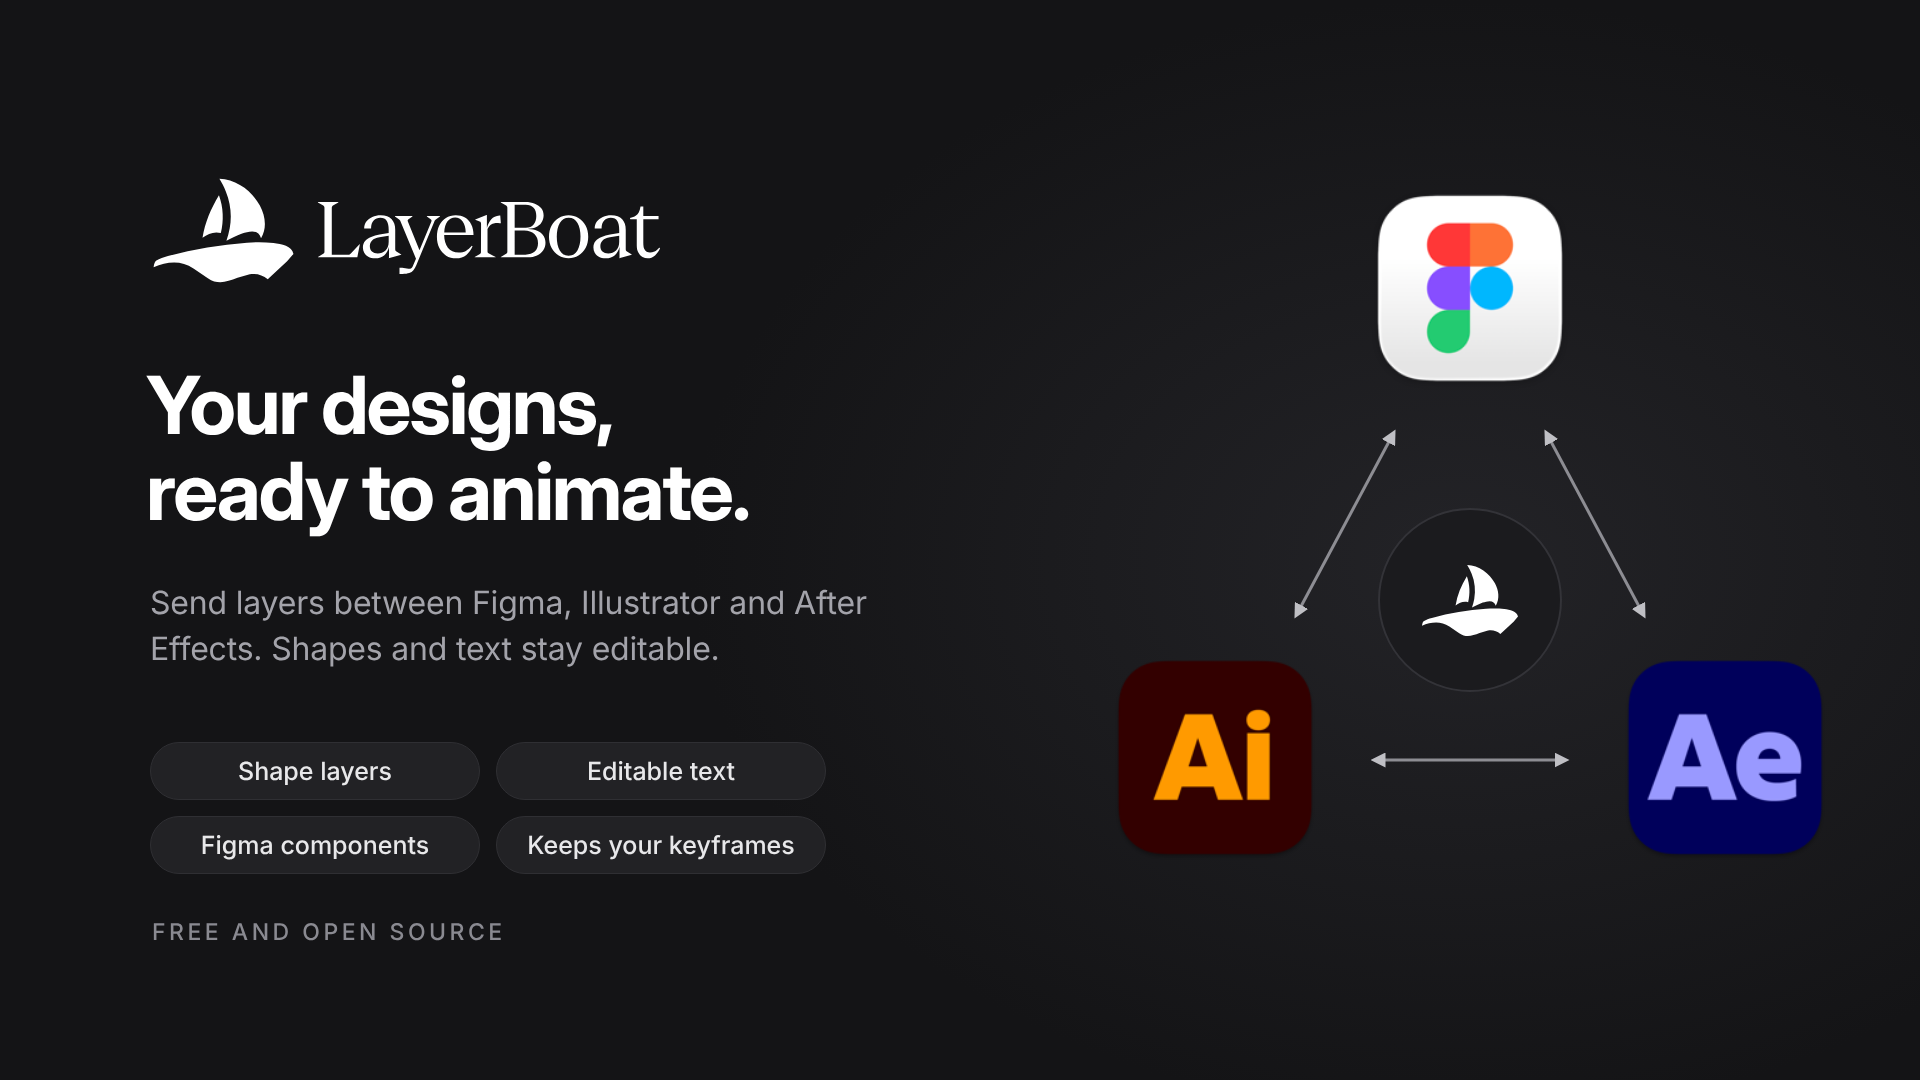
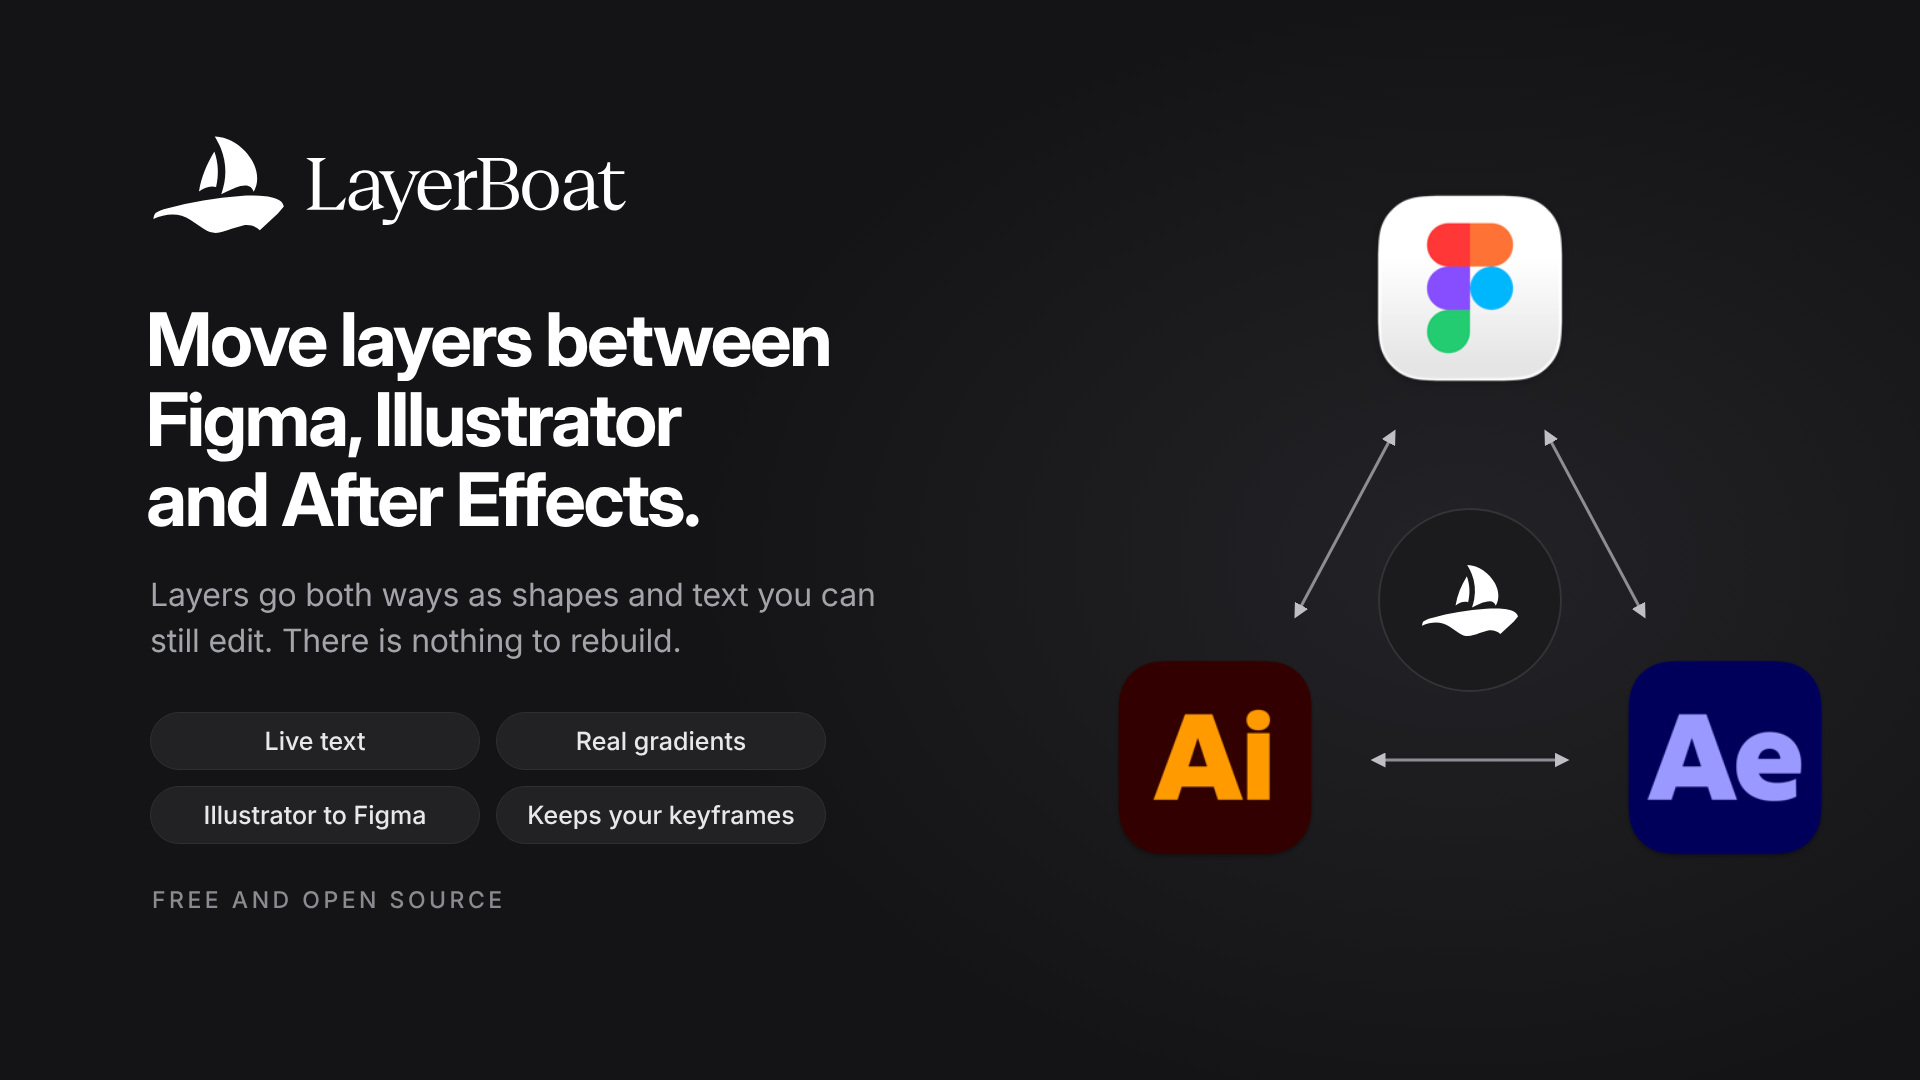
New messaging: no rebuilding, live text, Illustrator and Figma both ways. Site, README, listing and cover

diff --git a/site/index.html b/site/index.html
@@ -3,10 +3,10 @@
 <head>
 <meta charset="utf-8">
 <meta name="viewport" content="width=device-width, initial-scale=1">
-<title>LayerBoat · Move layers between Figma, Illustrator, Photoshop and After Effects</title>
-<meta name="description" content="Free and open source. Send Figma frames to After Effects as shape layers and editable text, and send them back. Works with Illustrator and Photoshop too.">
+<title>LayerBoat · The free way to get Figma, Illustrator and Photoshop files into After Effects</title>
+<meta name="description" content="Move Figma, Illustrator and Photoshop designs into After Effects without rebuilding them. Text stays editable, gradients stay gradients, and layers land where you placed them. Works between Figma and Illustrator too. Free and open source.">
 <meta property="og:title" content="LayerBoat">
-<meta property="og:description" content="Move layers between Figma, Illustrator and After Effects, both ways. Free and open source.">
+<meta property="og:description" content="Move your designs between Figma, Illustrator, Photoshop and After Effects without rebuilding a single layer. Free and open source.">
 <meta property="og:image" content="https://tobihassan.com/layerboat/cover.jpg">
 <meta property="og:url" content="https://tobihassan.com/layerboat">
 <link rel="canonical" href="https://tobihassan.com/layerboat">
@@ -188,8 +188,8 @@
     <div class="apps" aria-hidden="true">
       <img src="/layerboat/photoshop.png" alt=""><span>→</span><img src="/layerboat/after-effects.png" alt=""><span>⇄</span><img src="/layerboat/figma.png" alt=""><span>⇄</span><img src="/layerboat/illustrator.png" alt="">
     </div>
-    <h1>Move your designs between Figma, Illustrator and After Effects.</h1>
-    <p class="sub">Send a Figma frame to After Effects and start animating the real layers. When you're done, send it back. Illustrator and Photoshop work too. It's free, and the code is open for anyone.</p>
+    <h1 style="text-wrap:balance">Move your Figma designs into After Effects without rebuilding a single layer.</h1>
+    <p class="sub">Text stays editable. Gradients stay gradients. Everything lands where you placed it. When the design changes, update it in place and keep your animation. Illustrator and Photoshop work too. It's free and open source.</p>
     <a class="btn" id="dl" onclick="window.va&&window.va('event',{name:'Download'})" href="https://github.com/HassanOluwatobi/layerboat/releases/latest">
       <svg width="18" height="18" viewBox="0 0 24 24" fill="none" stroke="currentColor" stroke-width="2.2" stroke-linecap="round" stroke-linejoin="round"><path d="M12 4v12M6 11l6 6 6-6M5 20h14"/></svg>
       <span id="dl-label">Download LayerBoat</span>
@@ -200,14 +200,14 @@
 
   <section id="features">
     <div class="sec-head">
-      <h2>Your design, ready to animate.</h2>
-      <p>Most tools hand you a flat picture of your frame. LayerBoat rebuilds it with each app's own layers, so you can pick up right where the design left off.</p>
+      <h2>Skip the SVG export, the Illustrator cleanup and the XD workaround.</h2>
+      <p>Those detours exist because a normal import hands you a flat picture, grey gradients or text turned into outlines. LayerBoat rebuilds your design with each app's own layers, so you pick up where the design left off.</p>
     </div>
 
     <div class="feature">
       <div class="copy">
-        <h3>Layers arrive as layers, with their names.</h3>
-        <p>Send a frame and you get shape layers, text you can retype and your images, named exactly as they were in Figma. Gradients, masks, dashed strokes and rounded corners come along too.</p>
+        <h3>Your Figma text lands in After Effects as text you can still edit.</h3>
+        <p>Send a frame and you get live text, shape layers and your images, named exactly as they were in Figma and sitting exactly where they were. Gradients, masks, dashed strokes and rounded corners come along too. No reference overlay and no nudging layers into place.</p>
       </div>
       <div class="stage" aria-hidden="true">
         <div class="win" style="width:190px">
@@ -233,7 +233,7 @@
 
     <div class="feature flip">
       <div class="copy">
-        <h3>Change the design and keep the animation.</h3>
+        <h3>Change the design after you've animated it. Your keyframes stay.</h3>
         <p>Designs change after you've started animating. When they do, update the frame in Figma and send it again. LayerBoat rebuilds it in the same comp and leaves your keyframes, effects and extra layers where you put them.</p>
       </div>
       <div class="stage" aria-hidden="true" style="position:relative">
@@ -250,8 +250,8 @@
 
     <div class="feature">
       <div class="copy">
-        <h3>Go any direction you like.</h3>
-        <p>Send a comp back to Figma for review, or open it in Illustrator on a new artboard. Illustrator artwork can go to either app too. Text stays editable on every trip.</p>
+        <h3>Send layers from Illustrator to Figma and back. They come back as shapes, not flat images.</h3>
+        <p>Pasting from Illustrator often gives Figma a flat image, outlined text or broken paths. Going the other way turns your Figma text into outlines. LayerBoat moves groups, masks, gradients and live text in both directions and keeps your layer names. After Effects comps can go to either app too.</p>
       </div>
       <div class="stage" aria-hidden="true">
         <div class="loop">
@@ -353,7 +353,7 @@
   </section>
 
   <section class="cta">
-    <h2 class="serif">Try it on your next animation.</h2>
+    <h2 class="serif">Try it on the next file you were about to rebuild.</h2>
     <a class="btn" href="https://github.com/HassanOluwatobi/layerboat/releases/latest" onclick="window.va&&window.va('event',{name:'Download'})" id="dl2">Download LayerBoat</a>
   </section>
 

diff --git a/brand/cover-src/cover.html b/brand/cover-src/cover.html
@@ -1,21 +1,21 @@
 <!doctype html><html><head><style>
 *{margin:0;padding:0;box-sizing:border-box}
 body{width:1920px;height:1080px;background:radial-gradient(1100px 800px at 1460px 560px,#232327 0%,#141416 70%);font-family:"Inter",sans-serif;color:#fff;overflow:hidden;position:relative}
-.logo{position:absolute;left:150px;top:172px;height:120px}
-h1{position:absolute;left:146px;top:362px;font-family:"Inter Display","Inter";font-weight:700;font-size:80px;line-height:1.08;letter-spacing:-2.2px;width:820px}
-.sub{position:absolute;left:150px;top:580px;font-size:32px;line-height:1.45;color:#a3a3aa;width:780px;letter-spacing:-.2px}
-.chips{position:absolute;left:150px;top:742px;display:grid;grid-template-columns:330px 330px;gap:16px}
+.logo{position:absolute;left:150px;top:130px;height:112px}
+h1{position:absolute;left:146px;top:300px;font-family:"Inter Display","Inter";font-weight:700;font-size:74px;line-height:1.08;letter-spacing:-2.2px;width:900px}
+.sub{position:absolute;left:150px;top:572px;font-size:32px;line-height:1.45;color:#a3a3aa;width:780px;letter-spacing:-.2px}
+.chips{position:absolute;left:150px;top:712px;display:grid;grid-template-columns:330px 330px;gap:16px}
 .chip{height:58px;border-radius:29px;background:#222225;border:1.5px solid #2f2f33;display:flex;align-items:center;justify-content:center;font-size:25px;color:#e8e8ea;font-weight:500}
-.foot{position:absolute;left:152px;top:918px;font-size:23px;letter-spacing:3.5px;color:#8a8a91;font-weight:500}
+.foot{position:absolute;left:152px;top:886px;font-size:23px;letter-spacing:3.5px;color:#8a8a91;font-weight:500}
 .app{position:absolute;width:200px;height:200px;border-radius:46px;}
 .hub{position:absolute;left:1378px;top:508px;width:184px;height:184px;border-radius:50%;background:#1b1b1e;border:2px solid #333338;display:flex;align-items:center;justify-content:center}
 .hub img{width:150px}
 svg.lines{position:absolute;left:0;top:0}
 </style></head><body>
 <img class="logo" src="logo-lockup.svg">
-<h1>Your designs,<br>ready to animate.</h1>
-<p class="sub">Send layers between Figma, Illustrator and After Effects. Shapes and text stay editable.</p>
-<div class="chips"><div class="chip">Shape layers</div><div class="chip">Editable text</div><div class="chip">Figma components</div><div class="chip">Keeps your keyframes</div></div>
+<h1>Move layers between<br>Figma, Illustrator<br>and After Effects.</h1>
+<p class="sub">Layers go both ways as shapes and text you can still edit. There is nothing to rebuild.</p>
+<div class="chips"><div class="chip">Live text</div><div class="chip">Real gradients</div><div class="chip">Illustrator to Figma</div><div class="chip">Keeps your keyframes</div></div>
 <div class="foot">FREE AND OPEN SOURCE</div>
 <svg class="lines" width="1920" height="1080" viewBox="0 0 1920 1080"><defs><marker id="a" viewBox="0 0 10 10" refX="5" refY="5" markerWidth="5" markerHeight="5" orient="auto-start-reverse"><path d="M0 0L10 5L0 10z" fill="#bfbfc4"/></marker></defs>
 <g stroke="#8d8d93" stroke-width="3" fill="none"><line x1="1392" y1="436" x2="1298" y2="612" marker-start="url(#a)" marker-end="url(#a)"/><line x1="1548" y1="436" x2="1642" y2="612" marker-start="url(#a)" marker-end="url(#a)"/><line x1="1378" y1="760" x2="1562" y2="760" marker-start="url(#a)" marker-end="url(#a)"/></g></svg>

diff --git a/figma-plugin/LISTING.md b/figma-plugin/LISTING.md
@@ -6,21 +6,23 @@ Everything Figma asks for when you publish, ready to paste.
 LayerBoat
 
 ## Tagline
-Move layers between Figma, Illustrator and After Effects. Both ways.
+Move layers between Figma, Illustrator and After Effects, both ways, still editable.
 
 ## Category
 Design tools
 
 ## Description
-LayerBoat moves your designs between Figma, Adobe Illustrator and Adobe After Effects as real, editable layers. It is free and open source.
+LayerBoat moves your designs between Figma, Adobe Illustrator and Adobe After Effects without rebuilding a single layer. Text stays editable, gradients stay gradients, and everything lands where you placed it. It is free and open source.
+
+It replaces the usual detours. No exporting SVGs, no cleaning them up in Illustrator, no going through Adobe XD. When you paste from Illustrator, Figma often gets a flat image or outlined text. LayerBoat brings the artwork in as shapes and live text instead.
 
 What it does
-- Send a frame or a selection from Figma to After Effects. Shapes, text, gradients, images, masks and groups come in as native After Effects layers, ready to animate.
+- Send a frame or a selection from Figma to After Effects. Shapes, text, gradients, images, masks and groups come in as native After Effects layers, named as they were in Figma.
 - Send a comp from After Effects back to Figma.
-- Send artwork from Illustrator to Figma, and Figma frames to Illustrator, with text kept live and layer names kept.
+- Send artwork from Illustrator to Figma, and Figma frames to Illustrator. Text stays live, gradients stay editable and layer names are kept.
 - Figma components come in as shared After Effects comps. Each copy keeps its own text as an Essential Graphics control.
 - Select several frames to send them all at once. Each one becomes its own comp.
-- Send the same frame again and the comp updates in place. Your keyframes and effects stay.
+- Change the design after you have animated it. Send the frame again and the comp updates in place, with your keyframes and effects kept.
 
 How to use it
 1. Download LayerBoat from tobihassan.com/layerboat and run Install LayerBoat.jsx in After Effects with File > Scripts > Run Script File.

diff --git a/README.md b/README.md
@@ -1,6 +1,6 @@
 <p align="center"><img src="brand/logo-lockup.svg" alt="LayerBoat" width="420"></p>
 
-<p align="center">Move layers between Figma, Illustrator and After Effects, both ways, and from Photoshop to After Effects.<br>Real shapes, live text, nothing flattened. Free and open source.</p>
+<p align="center">Move your Figma, Illustrator and Photoshop designs into After Effects without rebuilding a single layer.<br>Text stays editable, gradients stay gradients, and Figma and Illustrator trade layers both ways. Free and open source.</p>
 
 ---
 
